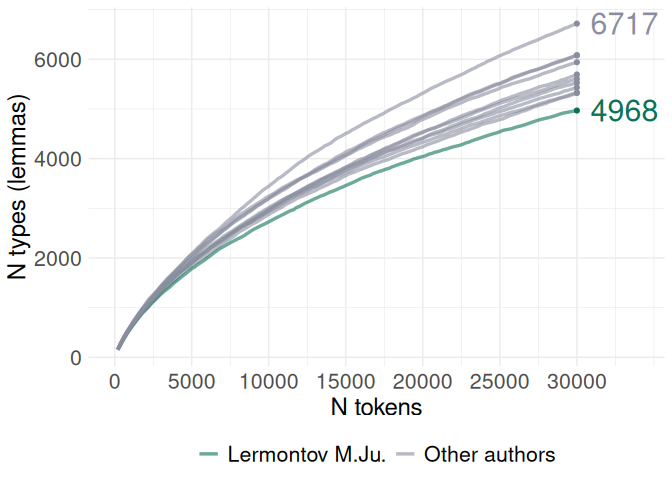
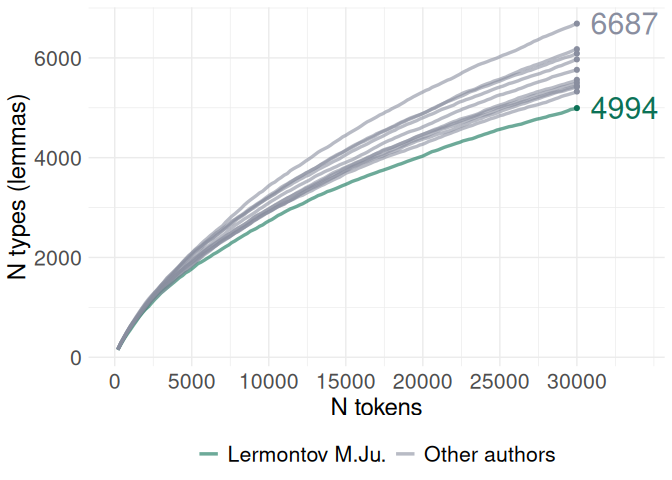
minor upd scr & md

diff --git a/scr/00_data_preparation.md b/scr/00_data_preparation.md
@@ -16,7 +16,7 @@ poetree_authors <- get_authors(corpus = "ru") %>%
 poetree_authors
 ```
 
-    # A tibble: 21 x 2
+    # A tibble: 21 × 2
          id_ name                     
        <int> <chr>                    
      1   366 Baratynskij E.A.         
@@ -29,7 +29,7 @@ poetree_authors
      8   201 Homjakov A.S.            
      9   284 Jazykov N.M.             
     10   268 Kjuhelbeker V.K.         
-    # i 11 more rows
+    # ℹ 11 more rows
 
 Get texts ids using authors’ ids
 
@@ -94,32 +94,22 @@ NB: Next step: lemmatize the tokenized file with
 Load manually prepared data
 
 ``` r
-kjetsaa <- read.delim("../data/kjetsaa_norm_corpus.csv", sep = ";") %>% 
+kjetsaa <- read.delim("../data/kjetsaa_corpus/kjetsaa_norm_corpus.csv", sep = ";") %>% 
   select(-X, -text_raw, -note)
 
-ru_poetree <- read_csv("../data/large_poetree_ru_19c_lemma.csv") %>% select(-`...1`)
-```
+# load prepared data: unzip first
+# utils::unzip("../data/poetree_ru_19c_lemma.zip")
+ru_poetree <- read.csv("../data/large_poetree_ru_19c_lemma.csv") %>% select(-X)
 
-    New names:
-    Rows: 1124893 Columns: 12
-    -- Column specification
-    -------------------------------------------------------- Delimiter: "," chr
-    (7): corpus, id, title, author_name, word, lemma, analysis dbl (5): ...1,
-    id_poem, year_created_from, year_created_to, id_author
-    i Use `spec()` to retrieve the full column specification for this data. i
-    Specify the column types or set `show_col_types = FALSE` to quiet this message.
-    * `` -> `...1`
-
-``` r
 glimpse(kjetsaa)
 ```
 
     Rows: 298
     Columns: 4
-    $ id         <int> 12083, 12085, 12036, 12105, 12112, NA, 12136, 12154, 12182,~
-    $ text_final <chr> "\320\223\320\264\320\265 \320\275\320\260\321\210\320\260 ~
-    $ author     <chr> "\320\220. \320\241. \320\237\321\203\321\210\320\272\320\2~
-    $ header     <chr> "\320\240\320\276\320\267\320\260 : \302\253\320\223\320\26~
+    $ id         <int> 12083, 12085, 12036, 12105, 12112, NA, 12136, 12154, 12182,…
+    $ text_final <chr> "Где наша роза, \n Друзья мои? \n Увяла роза, \n Дитя зари.…
+    $ author     <chr> "А. С. Пушкин", "А. С. Пушкин", "А. С. Пушкин", "А. С. Пушк…
+    $ header     <chr> "Роза : «Где наша роза...»", "Певец : «Слыхали ль вы за рощ…
 
 Add author names transliteration
 
@@ -127,7 +117,7 @@ Add author names transliteration
 # load prepared poetree data if needed
 # ru_poetree <- read.csv("../data/poetree_ru_1810-1839.csv")
 
-authors_translit <- tibble(
+authors_translit <- data.frame(
   author_name = unique(ru_poetree$author_name),
   author_name_ru = c("Е. А. Баратынский", "К. Н. Батюшков", "В. Г. Бенедиктов", 
                      "А. А. Бестужев-Марлинский", "А. А. Дельвиг", 
@@ -173,17 +163,17 @@ glimpse(poetree_ru)
 
     Rows: 1,124,893
     Columns: 11
-    $ corpus            <chr> "ru", "ru", "ru", "ru", "ru", "ru", "ru", "ru", "ru"~
-    $ id_poem           <int> 33734, 33734, 33734, 33734, 33734, 33734, 33734, 337~
-    $ id                <chr> "br1-105", "br1-105", "br1-105", "br1-105", "br1-105~
-    $ title             <chr> "\320\232...", "\320\232...", "\320\232...", "\320\2~
-    $ year_created_from <dbl> 1821, 1821, 1821, 1821, 1821, 1821, 1821, 1821, 1821~
-    $ year_created_to   <dbl> 1821, 1821, 1821, 1821, 1821, 1821, 1821, 1821, 1821~
-    $ id_author         <int> 220, 220, 220, 220, 220, 220, 220, 220, 220, 220, 22~
-    $ author_name       <chr> "Baratynskij E.A.", "Baratynskij E.A.", "Baratynskij~
-    $ word              <chr> "\320\277\321\200\320\270\321\217\321\202\320\265\32~
-    $ lemma             <chr> "\320\277\321\200\320\270\321\217\321\202\320\265\32~
-    $ analysis          <chr> "[{'analysis': [{'lex': '\320\277\321\200\320\270\32~
+    $ corpus            <chr> "ru", "ru", "ru", "ru", "ru", "ru", "ru", "ru", "ru"…
+    $ id_poem           <int> 33734, 33734, 33734, 33734, 33734, 33734, 33734, 337…
+    $ id                <chr> "br1-105", "br1-105", "br1-105", "br1-105", "br1-105…
+    $ title             <chr> "К...", "К...", "К...", "К...", "К...", "К...", "К..…
+    $ year_created_from <dbl> 1821, 1821, 1821, 1821, 1821, 1821, 1821, 1821, 1821…
+    $ year_created_to   <dbl> 1821, 1821, 1821, 1821, 1821, 1821, 1821, 1821, 1821…
+    $ id_author         <int> 220, 220, 220, 220, 220, 220, 220, 220, 220, 220, 22…
+    $ author_name       <chr> "Baratynskij E.A.", "Baratynskij E.A.", "Baratynskij…
+    $ word              <chr> "приятель", "строгий", "ты", "не", "прав", "несправе…
+    $ lemma             <chr> "приятель", "строгий", "ты", "не", "правый", "неспра…
+    $ analysis          <chr> "[{'analysis': [{'lex': 'приятель', 'gr': 'S,муж,од=…
 
 Number of unique words:
 
@@ -205,7 +195,7 @@ poetree_ru %>%
   mutate(perc = round(n_words / nrow(poetree_ru) * 100, 1))
 ```
 
-    # A tibble: 21 x 3
+    # A tibble: 21 × 3
        author_name      n_words  perc
        <chr>              <int> <dbl>
      1 Zhukovskij V.A.   244391  21.7
@@ -218,12 +208,12 @@ poetree_ru %>%
      8 Polezhaev A. I.    44272   3.9
      9 Baratynskij E.A.   38958   3.5
     10 Batjushkov K.N.    33389   3  
-    # i 11 more rows
+    # ℹ 11 more rows
 
 ### Kjetsaa’s norm corpus
 
 ``` r
-kjetsaa_norm <- read.delim("../data/kjetsaa_norm_corpus.csv", sep = ";") %>% 
+kjetsaa_norm <- read.delim("../data/kjetsaa_corpus/kjetsaa_norm_corpus.csv", sep = ";") %>% 
   select(-X)
 
 # number of lines
@@ -244,19 +234,8 @@ nrow(kjetsaa_norm) # number of texts
 Number of words & lemmas
 
 ``` r
-kjetsaa_lemma <- read_csv("../data/kjetsaa_norm_lemma.csv")
-```
+kjetsaa_lemma <- read.csv("../data/kjetsaa_corpus/kjetsaa_norm_lemma.csv")
 
-    Rows: 44602 Columns: 4
-    -- Column specification --------------------------------------------------------
-    Delimiter: ","
-    chr (3): author_name, word, lemma
-    dbl (1): id
-
-    i Use `spec()` to retrieve the full column specification for this data.
-    i Specify the column types or set `show_col_types = FALSE` to quiet this message.
-
-``` r
 # number of words
 nrow(kjetsaa_lemma) 
 ```

diff --git a/scr/01_TTR.md b/scr/01_TTR.md
@@ -8,46 +8,17 @@
 This notebook replicates Kjetsaa’s plot on TTR in poetic corpora.
 
 ``` r
-library(tidyverse)
-```
-
-    ── Attaching core tidyverse packages ──────────────────────── tidyverse 2.0.0 ──
-    ✔ dplyr     1.1.4     ✔ readr     2.1.6
-    ✔ forcats   1.0.1     ✔ stringr   1.6.0
-    ✔ ggplot2   4.0.1     ✔ tibble    3.3.1
-    ✔ lubridate 1.9.4     ✔ tidyr     1.3.2
-    ✔ purrr     1.2.1     
-    ── Conflicts ────────────────────────────────────────── tidyverse_conflicts() ──
-    ✖ dplyr::filter() masks stats::filter()
-    ✖ dplyr::lag()    masks stats::lag()
-    ℹ Use the conflicted package (<http://conflicted.r-lib.org/>) to force all conflicts to become errors
-
-``` r
+library(dplyr)
+library(tidyr)
 library(tidytext)
 
+library(ggplot2)
 library(MetBrewer)
 library(cowplot)
-```
-
-
-    Attaching package: 'cowplot'
-
-    The following object is masked from 'package:lubridate':
-
-        stamp
-
-``` r
 # libs to attach jpeg to plots
 library(jpeg)
 library(magick)
-```
 
-    Linking to ImageMagick 6.9.12.98
-    Enabled features: fontconfig, freetype, fftw, heic, lcms, pango, raw, webp, x11
-    Disabled features: cairo, ghostscript, rsvg
-    Using 6 threads
-
-``` r
 theme_set(theme_minimal())
 ```
 
@@ -238,7 +209,7 @@ glimpse(df)
     Rows: 1,100
     Columns: 2
     $ author <chr> "Baratynskij E.A.", "Batjushkov K.N.", "Benediktov V.G.", "Fet …
-    $ n      <int> 5539, 5307, 6094, 5538, 5386, 4979, 5889, 6157, 5422, 6720, 568…
+    $ n      <int> 5472, 5304, 6121, 5606, 5435, 5023, 5974, 6099, 5433, 6708, 570…
 
 ``` r
 plot_2a <- df %>% 
@@ -299,7 +270,7 @@ glimpse(df_2k)
     Rows: 1,100
     Columns: 2
     $ author <chr> "Baratynskij E.A.", "Batjushkov K.N.", "Benediktov V.G.", "Fet …
-    $ n      <int> 999, 1025, 1061, 953, 977, 958, 1083, 1060, 994, 1066, 1011, 99…
+    $ n      <int> 1015, 1031, 1062, 998, 990, 956, 1086, 1085, 984, 1037, 1040, 1…
 
 ``` r
 plot_2b <- df_2k %>% 
@@ -364,26 +335,26 @@ Count N lemmas in Kjetsaa’s corpus
     # A tibble: 20 × 2
        author                    n_kjetsaa
        <chr>                         <int>
-     1 Baratynskij E.A.                990
-     2 Batjushkov K.N.                 965
-     3 Benediktov V.G.                 935
-     4 Bestuzhev-Marlinskij A.A.      1013
-     5 Delvig A.A.                     824
-     6 Glinka F.N.                     920
-     7 Homjakov A.S.                   855
-     8 Jazykov N.M.                    928
-     9 Kjuhelbeker V.K.                911
-    10 Koltsov A. V.                   906
-    11 Kozlov I.I.                     784
+     1 Baratynskij E.A.                991
+     2 Batjushkov K.N.                 948
+     3 Benediktov V.G.                 933
+     4 Bestuzhev-Marlinskij A.A.      1019
+     5 Delvig A.A.                     823
+     6 Glinka F.N.                     913
+     7 Homjakov A.S.                   858
+     8 Jazykov N.M.                    929
+     9 Kjuhelbeker V.K.                915
+    10 Koltsov A. V.                   904
+    11 Kozlov I.I.                     782
     12 Lermontov M.Ju.                 920
-    13 Polezhaev A. I.                 879
-    14 Pushkin A.S.                    962
-    15 Ryleev K.F.                     901
-    16 Shevyrev S.P.                   908
-    17 Tjutchev F.I.                   935
-    18 Venevitinov D.V.                897
-    19 Vjazemskij P.A.                1016
-    20 Zhukovskij V.A.                 836
+    13 Polezhaev A. I.                 869
+    14 Pushkin A.S.                    994
+    15 Ryleev K.F.                     902
+    16 Shevyrev S.P.                   911
+    17 Tjutchev F.I.                   916
+    18 Venevitinov D.V.                908
+    19 Vjazemskij P.A.                1027
+    20 Zhukovskij V.A.                 844
 
 ### Fig 2-b
 

diff --git a/scr/02_keywords.md b/scr/02_keywords.md
@@ -502,6 +502,7 @@ head(lerm_lr_int)
 ```
 
 ``` r
+# NB zeta_tests/ folder should exist!
 lerm_zr <- zeta_count(AUTHOR = "Lermontov M.Ju.",
                       N_POEMS = 270,
                       SAMPLE_SIZE = 43000,
@@ -861,7 +862,7 @@ fet_wl$word_list[5]
 Read saved results from .rds file and make the plot
 
 ``` r
-global_res <- readRDS("../data/keywords_res_kjetsaa_norm.rds")
+global_res <- readRDS("../data/results/keywords_res_kjetsaa_norm.rds")
 
 # Lermontov results
 lerm <- global_res %>% filter(author == "Lermontov M.Ju.")
@@ -1092,7 +1093,7 @@ fet_zr_int <- calculate_intersection(author_lists = fet_lists,
 
 ``` r
 # Read stored results and create plots
-global_res <- readRDS("../data/keywords_res_5k_norm.rds")
+global_res <- readRDS("../data/results/keywords_res_5k_norm.rds")
 
 # Lermontov results
 lerm <- global_res %>% filter(author == "Lermontov M.Ju.")
